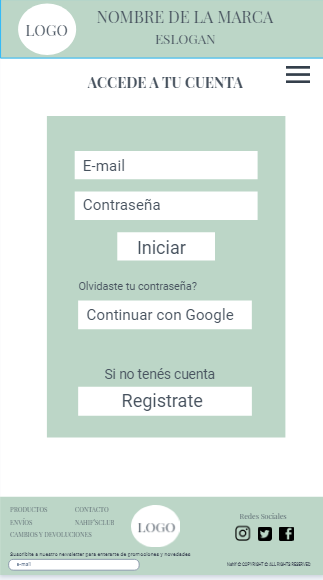
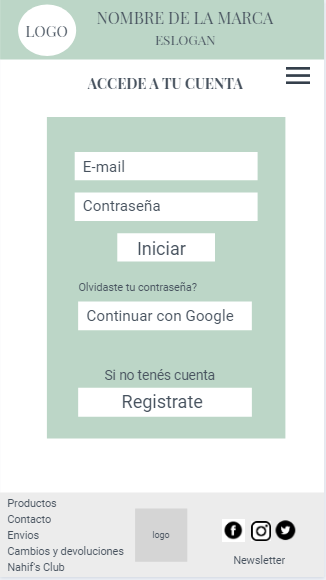
cambio footer mobile y readme

diff --git a/README.md b/README.md
@@ -22,6 +22,8 @@ Tengo 29 años soy arquitecto. Nací, crecí y vivo en Cordoba. Disfruto mucho d
 
 **Xime Espagnol**
 
+Tengo 49 años y soy de Buenos Aires. Tengo 2 hijas, trabajo en organización de eventos corporativos y estudié diseño gráfico. Me gusta programar, y tengo conocimientos básicos y me estoy perfeccionando con este curso. 
+
 **Mariana Muñoz**
 
 **Pablo Obregon**
